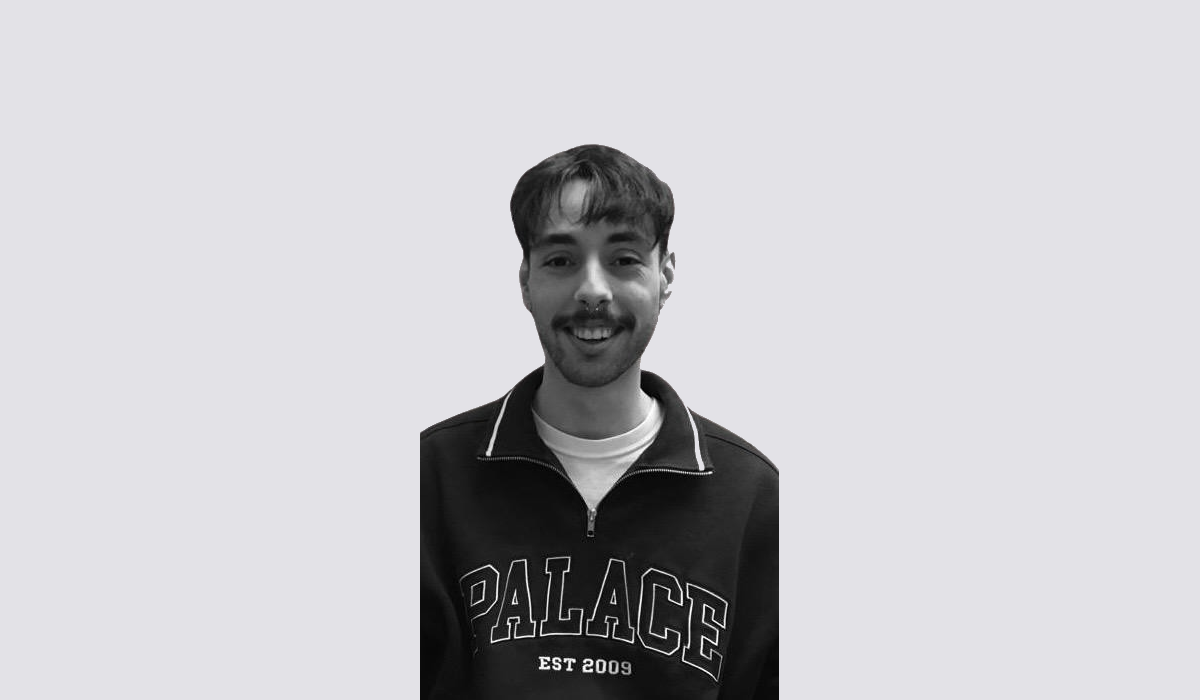
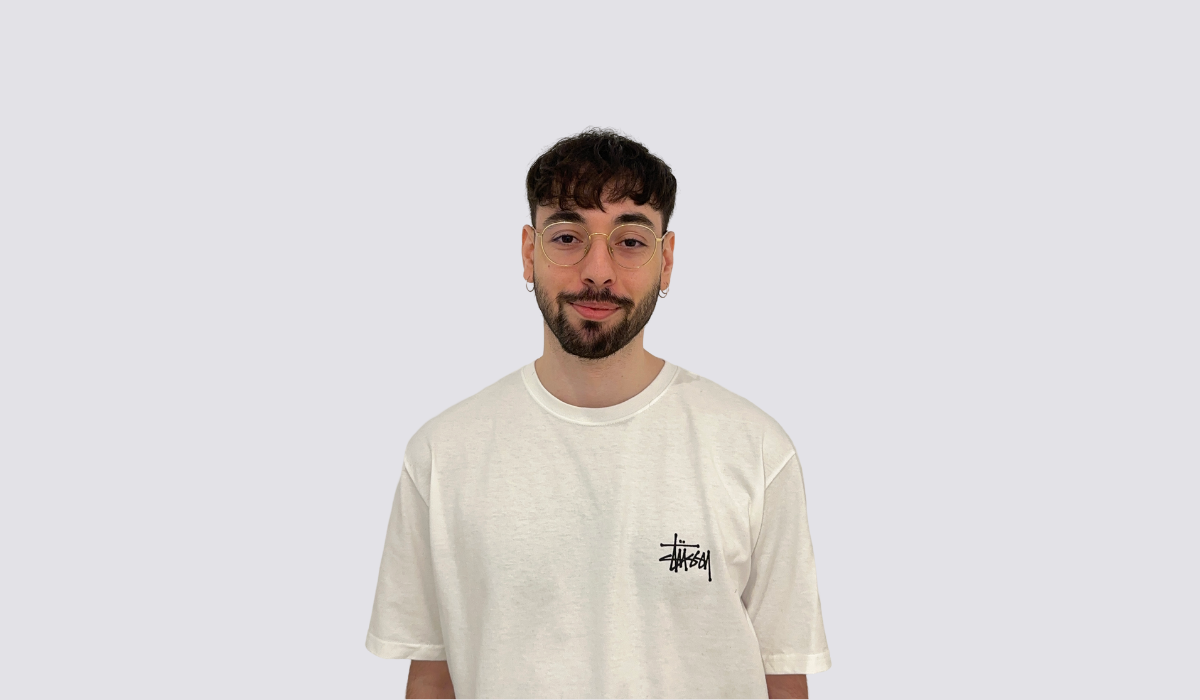
added new photo

Changed region(s): [[0.3083, 0.18, 0.7092, 1.0]]

diff --git a/src/components/About/About.tsx b/src/components/About/About.tsx
@@ -1,8 +1,8 @@
-import { useRef, useEffect, useState } from "react";
-import { useInView } from "framer-motion";
-import "./about.css";
-import galaxy from "../../assets/galaxy.jpg";
-import keyboard from "../../assets/keyboard.jpeg";
+import { useRef, useEffect, useState } from 'react';
+import { useInView } from 'framer-motion';
+import './about.css';
+import galaxy from '../../assets/galaxy.jpg';
+import keyboard from '../../assets/keyboard.jpeg';
 
 export default function AboutContent() {
   const dividerRef = useRef(null);
@@ -25,26 +25,26 @@ export default function AboutContent() {
   const list = [
     {
       img: galaxy,
-      title: "Frontent development internship at Inditex",
-      date: "2024 - now",
+      title: 'Web Architect at Inditex',
+      date: '2024 - now',
       // backgroundPosition: bgPosition.p1,
     },
     {
       img: keyboard,
-      title: "Computer engineering at the University of Coruña",
-      date: "2019 - 2025",
+      title: 'Computer engineering at the University of Coruña',
+      date: '2019 - now',
       // backgroundPosition: bgPosition.p2,
     },
     {
       img: galaxy,
-      title: "Backend development internship at Oesia",
-      date: "2019 -2019",
+      title: 'Backend development internship at Oesia',
+      date: '2019 -2019',
       // backgroundPosition: bgPosition.p3,
     },
     {
       img: keyboard,
-      title: "Multi-Platform Application development",
-      date: "2017 - 2019",
+      title: 'Multi-Platform Application development',
+      date: '2017 - 2019',
       // backgroundPosition: bgPosition.p4,
     },
   ];
@@ -66,12 +66,12 @@ export default function AboutContent() {
   // };
 
   const dividerAnimation = useInView(dividerRef, {
-    margin: "-300px 0px 0px 0px",
+    margin: '-300px 0px 0px 0px',
     once: true,
   });
 
   const isFirstDividerInView = useInView(firstDividerRef, {
-    margin: "-300px 0px 0px 0px",
+    margin: '-300px 0px 0px 0px',
     once: true,
   });
 
@@ -86,7 +86,7 @@ export default function AboutContent() {
       <div
         ref={dividerRef}
         className={`min-h-[1px] bg-[#f9f9f993] md:col-start-2 md:col-end-12 col-start-1 col-end-13 divider ${
-          dividerAnimation ? "animate-divider delay-0" : ""
+          dividerAnimation ? 'animate-divider delay-0' : ''
         }`}
       ></div>
       <div className="md:col-start-2 md:col-end-12 col-start-1 col-end-13 flex flex-col lg:flex-row lg:leading-[50px] py-[80px] about-animation">
@@ -136,7 +136,7 @@ export default function AboutContent() {
                     <div
                       ref={firstDividerRef}
                       className={`min-h-[1px] bg-[#f9f9f993] md:col-start-2 md:col-end-12 col-start-1 col-end-13 divider  ${
-                        shouldAnimate ? "animate-divider delay-0" : ""
+                        shouldAnimate ? 'animate-divider delay-0' : ''
                       }`}
                     ></div>
                     <li className="py-3 flex flex-col">

diff --git a/src/components/Footer/Footer.tsx b/src/components/Footer/Footer.tsx
@@ -1,4 +1,4 @@
-import "./footer.css";
+import './footer.css';
 export default function Footer() {
   return (
     <>
@@ -45,19 +45,25 @@ export default function Footer() {
             </div>
             <div className="flex flex-col mt-3 sm:mt-0 mb-16 sm:mb-0 lg:flex-row gap-1 lg:gap-3 lg:ml-3 md:text-xl lg:text-2xl ">
               <a
-                href="#"
+                href="www.instagram.com"
+                target="_blank"
+                rel="noreferrer"
                 className="footer-link cursor-hover2 hover:text-[#6d6d6d] transition-colors duration-300 w-fit cursor-hover2"
               >
                 Instagram
               </a>
               <a
                 href="www.twitter.com"
+                target="_blank"
+                rel="noreferrer"
                 className="footer-link cursor-hover2 hover:text-[#6d6d6d] transition-colors duration-300 w-fit cursor-hover2"
               >
                 Twitter
               </a>
               <a
-                href="#"
+                href="www.linkedin.com/in/miguel-rodríguez-pérez-45598b1b7"
+                target="_blank"
+                rel="noreferrer"
                 className="footer-link cursor-hover2 hover:text-[#6d6d6d] transition-colors duration-300 w-fit cursor-hover2"
               >
                 LinkedIn

diff --git a/src/components/Hero/Hero.tsx b/src/components/Hero/Hero.tsx
@@ -1,6 +1,6 @@
-import { motion, useScroll, useTransform } from "framer-motion";
-import { useRef } from "react";
-import "./hero.css";
+import { motion, useScroll, useTransform } from 'framer-motion';
+import { useRef } from 'react';
+import './hero.css';
 
 const Hero = () => {
   const ref = useRef(null);
@@ -12,8 +12,8 @@ const Hero = () => {
   return (
     <header className="grid-container bg-[#222] z-[999]" ref={ref}>
       <h1 className="hero-title">
-        {"FRONT-END DEVELOPER DRIVEN BY DESIGN"
-          .split("")
+        {'FRONT-END DEVELOPER DRIVEN BY DESIGN'
+          .split('')
           .map((letter, index) => (
             <span key={index} className="cursor-hover">
               {letter}
@@ -42,6 +42,7 @@ const Hero = () => {
             src="https://images.unsplash.com/photo-1687904364304-3fa792cdb55a?q=80&w=2070&auto=format&fit=crop&ixlib=rb-4.0.3&ixid=M3wxMjA3fDB8MHxwaG90by1wYWdlfHx8fGVufDB8fHx8fA%3D%3D"
           /> */}
           <img className="hero-image" src="./miguel.png" />
+          {/* <img className="hero-image" src="./profile.jpg" /> */}
         </div>
       </motion.div>
 
